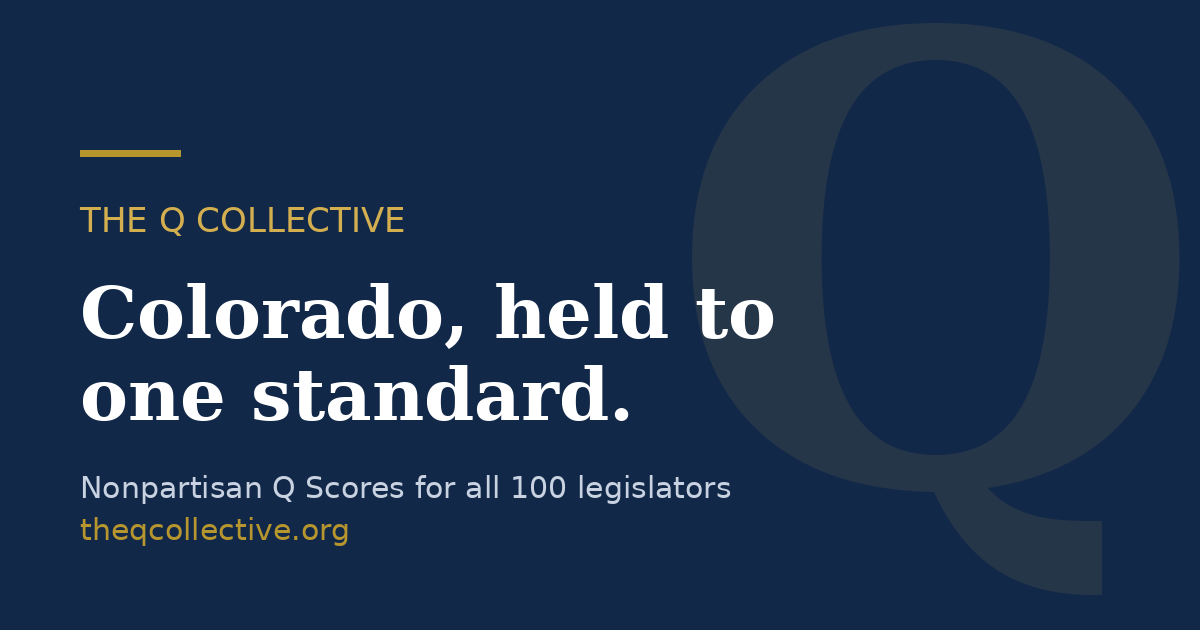
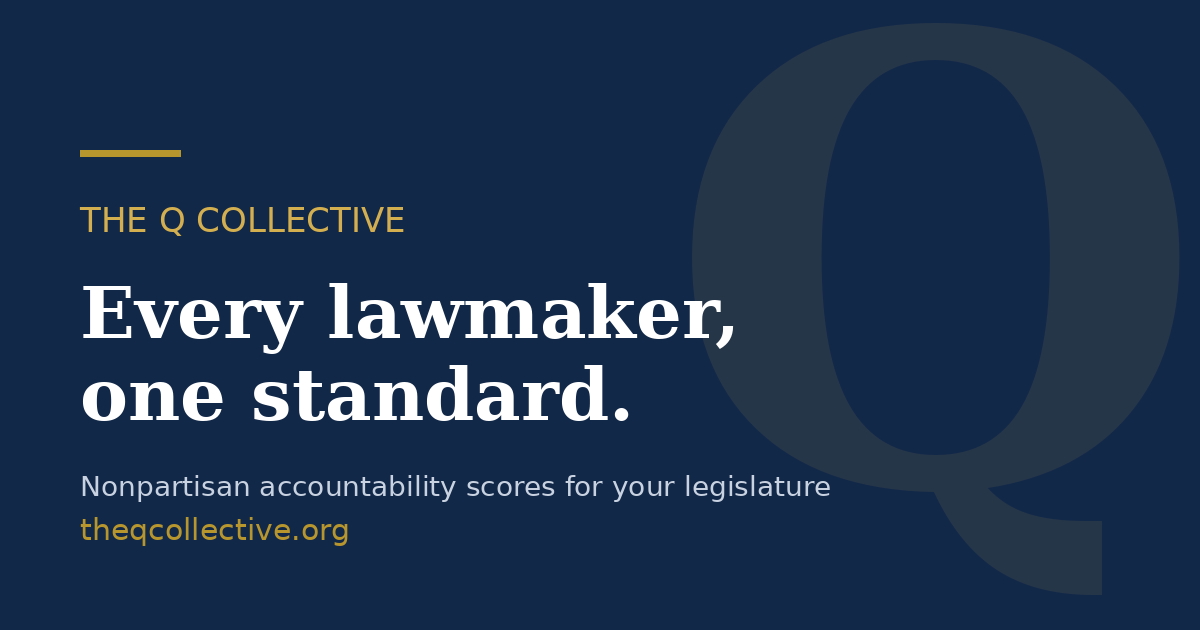
Add files via upload

Changed region(s): [[0.0617, 0.4524, 0.6475, 0.573], [0.0617, 0.754, 0.7092, 0.8143]]

diff --git a/citizen-champion.html b/citizen-champion.html
@@ -2,17 +2,17 @@
 <meta charset="UTF-8"><meta name="viewport" content="width=device-width,initial-scale=1.0">
 <title>Citizen Champion Card &mdash; The Q Collective</title>
 <meta name="robots" content="index,follow">
-<meta name="description" content="Q Scores and public records from The Q Collective — nonpartisan Colorado legislative accountability.">
+<meta name="description" content="Q Scores and public records from The Q Collective — nonpartisan legislative accountability.">
 <link rel="canonical" href="https://theqcollective.org/citizen-champion.html">
 <meta property="og:type" content="website">
 <meta property="og:site_name" content="The Q Collective">
 <meta property="og:title" content="Citizen Champion Card &amp;mdash; The Q Collective">
-<meta property="og:description" content="Q Scores and public records from The Q Collective — nonpartisan Colorado legislative accountability.">
+<meta property="og:description" content="Q Scores and public records from The Q Collective — nonpartisan legislative accountability.">
 <meta property="og:url" content="https://theqcollective.org/citizen-champion.html">
 <meta property="og:image" content="https://theqcollective.org/og-image.png">
 <meta name="twitter:card" content="summary_large_image">
 <meta name="twitter:title" content="Citizen Champion Card &amp;mdash; The Q Collective">
-<meta name="twitter:description" content="Q Scores and public records from The Q Collective — nonpartisan Colorado legislative accountability.">
+<meta name="twitter:description" content="Q Scores and public records from The Q Collective — nonpartisan legislative accountability.">
 <meta name="twitter:image" content="https://theqcollective.org/og-image.png">
 <link href="https://fonts.googleapis.com/css2?family=DM+Sans:wght@400;500;600;700&family=DM+Mono:wght@400;500&family=Playfair+Display:wght@700;900&display=swap" rel="stylesheet">
 <style>

diff --git a/national-profile.html b/national-profile.html
@@ -3,17 +3,17 @@
 <meta name="viewport" content="width=device-width,initial-scale=1.0">
 <title>Legislator Profile — The Q Collective</title>
 <meta name="robots" content="index,follow">
-<meta name="description" content="Q Scores and public records from The Q Collective — nonpartisan Colorado legislative accountability.">
+<meta name="description" content="Q Scores and public records from The Q Collective — nonpartisan legislative accountability.">
 <link rel="canonical" href="https://theqcollective.org/national-profile.html">
 <meta property="og:type" content="website">
 <meta property="og:site_name" content="The Q Collective">
 <meta property="og:title" content="Legislator Profile — The Q Collective">
-<meta property="og:description" content="Q Scores and public records from The Q Collective — nonpartisan Colorado legislative accountability.">
+<meta property="og:description" content="Q Scores and public records from The Q Collective — nonpartisan legislative accountability.">
 <meta property="og:url" content="https://theqcollective.org/national-profile.html">
 <meta property="og:image" content="https://theqcollective.org/og-image.png">
 <meta name="twitter:card" content="summary_large_image">
 <meta name="twitter:title" content="Legislator Profile — The Q Collective">
-<meta name="twitter:description" content="Q Scores and public records from The Q Collective — nonpartisan Colorado legislative accountability.">
+<meta name="twitter:description" content="Q Scores and public records from The Q Collective — nonpartisan legislative accountability.">
 <meta name="twitter:image" content="https://theqcollective.org/og-image.png">
 <link href="https://fonts.googleapis.com/css2?family=DM+Sans:wght@400;500;600&family=DM+Mono:wght@400;500&family=Playfair+Display:ital,wght@0,700;1,700&display=swap" rel="stylesheet">
 <style>

diff --git a/legislator.html b/legislator.html
@@ -3,17 +3,17 @@
 <meta name="viewport" content="width=device-width,initial-scale=1.0">
 <title>Legislator Profile — The Q Collective</title>
 <meta name="robots" content="index,follow">
-<meta name="description" content="Q Scores and public records from The Q Collective — nonpartisan Colorado legislative accountability.">
+<meta name="description" content="Q Scores and public records from The Q Collective — nonpartisan legislative accountability.">
 <link rel="canonical" href="https://theqcollective.org/legislator.html">
 <meta property="og:type" content="website">
 <meta property="og:site_name" content="The Q Collective">
 <meta property="og:title" content="Legislator Profile — The Q Collective">
-<meta property="og:description" content="Q Scores and public records from The Q Collective — nonpartisan Colorado legislative accountability.">
+<meta property="og:description" content="Q Scores and public records from The Q Collective — nonpartisan legislative accountability.">
 <meta property="og:url" content="https://theqcollective.org/legislator.html">
 <meta property="og:image" content="https://theqcollective.org/og-image.png">
 <meta name="twitter:card" content="summary_large_image">
 <meta name="twitter:title" content="Legislator Profile — The Q Collective">
-<meta name="twitter:description" content="Q Scores and public records from The Q Collective — nonpartisan Colorado legislative accountability.">
+<meta name="twitter:description" content="Q Scores and public records from The Q Collective — nonpartisan legislative accountability.">
 <meta name="twitter:image" content="https://theqcollective.org/og-image.png">
 <link href="https://fonts.googleapis.com/css2?family=DM+Sans:wght@400;500;600&family=DM+Mono:wght@400;500&family=Playfair+Display:ital,wght@0,700;1,700&display=swap" rel="stylesheet">
 <style>

diff --git a/state-profile.html b/state-profile.html
@@ -3,17 +3,17 @@
 <meta name="viewport" content="width=device-width,initial-scale=1.0">
 <title>Official Profile — The Q Collective</title>
 <meta name="robots" content="index,follow">
-<meta name="description" content="Q Scores and public records from The Q Collective — nonpartisan Colorado legislative accountability.">
+<meta name="description" content="Q Scores and public records from The Q Collective — nonpartisan legislative accountability.">
 <link rel="canonical" href="https://theqcollective.org/state-profile.html">
 <meta property="og:type" content="website">
 <meta property="og:site_name" content="The Q Collective">
 <meta property="og:title" content="Official Profile — The Q Collective">
-<meta property="og:description" content="Q Scores and public records from The Q Collective — nonpartisan Colorado legislative accountability.">
+<meta property="og:description" content="Q Scores and public records from The Q Collective — nonpartisan legislative accountability.">
 <meta property="og:url" content="https://theqcollective.org/state-profile.html">
 <meta property="og:image" content="https://theqcollective.org/og-image.png">
 <meta name="twitter:card" content="summary_large_image">
 <meta name="twitter:title" content="Official Profile — The Q Collective">
-<meta name="twitter:description" content="Q Scores and public records from The Q Collective — nonpartisan Colorado legislative accountability.">
+<meta name="twitter:description" content="Q Scores and public records from The Q Collective — nonpartisan legislative accountability.">
 <meta name="twitter:image" content="https://theqcollective.org/og-image.png">
 <link href="https://fonts.googleapis.com/css2?family=DM+Sans:wght@400;500;600;700&family=DM+Mono:wght@400;500&family=Playfair+Display:wght@700;900&display=swap" rel="stylesheet">
 <style>

diff --git a/official.html b/official.html
@@ -3,17 +3,17 @@
 <meta name="viewport" content="width=device-width,initial-scale=1.0">
 <title>Official Profile — The Q Collective</title>
 <meta name="robots" content="index,follow">
-<meta name="description" content="Q Scores and public records from The Q Collective — nonpartisan Colorado legislative accountability.">
+<meta name="description" content="Q Scores and public records from The Q Collective — nonpartisan legislative accountability.">
 <link rel="canonical" href="https://theqcollective.org/official.html">
 <meta property="og:type" content="website">
 <meta property="og:site_name" content="The Q Collective">
 <meta property="og:title" content="Official Profile — The Q Collective">
-<meta property="og:description" content="Q Scores and public records from The Q Collective — nonpartisan Colorado legislative accountability.">
+<meta property="og:description" content="Q Scores and public records from The Q Collective — nonpartisan legislative accountability.">
 <meta property="og:url" content="https://theqcollective.org/official.html">
 <meta property="og:image" content="https://theqcollective.org/og-image.png">
 <meta name="twitter:card" content="summary_large_image">
 <meta name="twitter:title" content="Official Profile — The Q Collective">
-<meta name="twitter:description" content="Q Scores and public records from The Q Collective — nonpartisan Colorado legislative accountability.">
+<meta name="twitter:description" content="Q Scores and public records from The Q Collective — nonpartisan legislative accountability.">
 <meta name="twitter:image" content="https://theqcollective.org/og-image.png">
 <link href="https://fonts.googleapis.com/css2?family=DM+Sans:wght@400;500;600&family=DM+Mono:wght@400;500&family=Playfair+Display:ital,wght@0,700;1,700&display=swap" rel="stylesheet">
 <style>

diff --git a/audit.html b/audit.html
@@ -3,17 +3,17 @@
 <meta name="viewport" content="width=device-width,initial-scale=1.0">
 <title>Audit Log — The Q Collective</title>
 <meta name="robots" content="index,follow">
-<meta name="description" content="Q Scores and public records from The Q Collective — nonpartisan Colorado legislative accountability.">
+<meta name="description" content="Q Scores and public records from The Q Collective — nonpartisan legislative accountability.">
 <link rel="canonical" href="https://theqcollective.org/audit.html">
 <meta property="og:type" content="website">
 <meta property="og:site_name" content="The Q Collective">
 <meta property="og:title" content="Audit Log — The Q Collective">
-<meta property="og:description" content="Q Scores and public records from The Q Collective — nonpartisan Colorado legislative accountability.">
+<meta property="og:description" content="Q Scores and public records from The Q Collective — nonpartisan legislative accountability.">
 <meta property="og:url" content="https://theqcollective.org/audit.html">
 <meta property="og:image" content="https://theqcollective.org/og-image.png">
 <meta name="twitter:card" content="summary_large_image">
 <meta name="twitter:title" content="Audit Log — The Q Collective">
-<meta name="twitter:description" content="Q Scores and public records from The Q Collective — nonpartisan Colorado legislative accountability.">
+<meta name="twitter:description" content="Q Scores and public records from The Q Collective — nonpartisan legislative accountability.">
 <meta name="twitter:image" content="https://theqcollective.org/og-image.png">
 <link href="https://fonts.googleapis.com/css2?family=DM+Sans:wght@400;500;600;700&family=DM+Mono:wght@400;500&family=Playfair+Display:wght@700;900&display=swap" rel="stylesheet">
 <style>

diff --git a/bill.html b/bill.html
@@ -3,17 +3,17 @@
 <meta name="viewport" content="width=device-width,initial-scale=1.0">
 <title>Bill — The Q Collective</title>
 <meta name="robots" content="index,follow">
-<meta name="description" content="Q Scores and public records from The Q Collective — nonpartisan Colorado legislative accountability.">
+<meta name="description" content="Q Scores and public records from The Q Collective — nonpartisan legislative accountability.">
 <link rel="canonical" href="https://theqcollective.org/bill.html">
 <meta property="og:type" content="website">
 <meta property="og:site_name" content="The Q Collective">
 <meta property="og:title" content="Bill — The Q Collective">
-<meta property="og:description" content="Q Scores and public records from The Q Collective — nonpartisan Colorado legislative accountability.">
+<meta property="og:description" content="Q Scores and public records from The Q Collective — nonpartisan legislative accountability.">
 <meta property="og:url" content="https://theqcollective.org/bill.html">
 <meta property="og:image" content="https://theqcollective.org/og-image.png">
 <meta name="twitter:card" content="summary_large_image">
 <meta name="twitter:title" content="Bill — The Q Collective">
-<meta name="twitter:description" content="Q Scores and public records from The Q Collective — nonpartisan Colorado legislative accountability.">
+<meta name="twitter:description" content="Q Scores and public records from The Q Collective — nonpartisan legislative accountability.">
 <meta name="twitter:image" content="https://theqcollective.org/og-image.png">
 <link href="https://fonts.googleapis.com/css2?family=DM+Sans:wght@400;500;600&family=DM+Mono:wght@400;500&family=Playfair+Display:ital,wght@0,700;1,700&display=swap" rel="stylesheet">
 <style>
